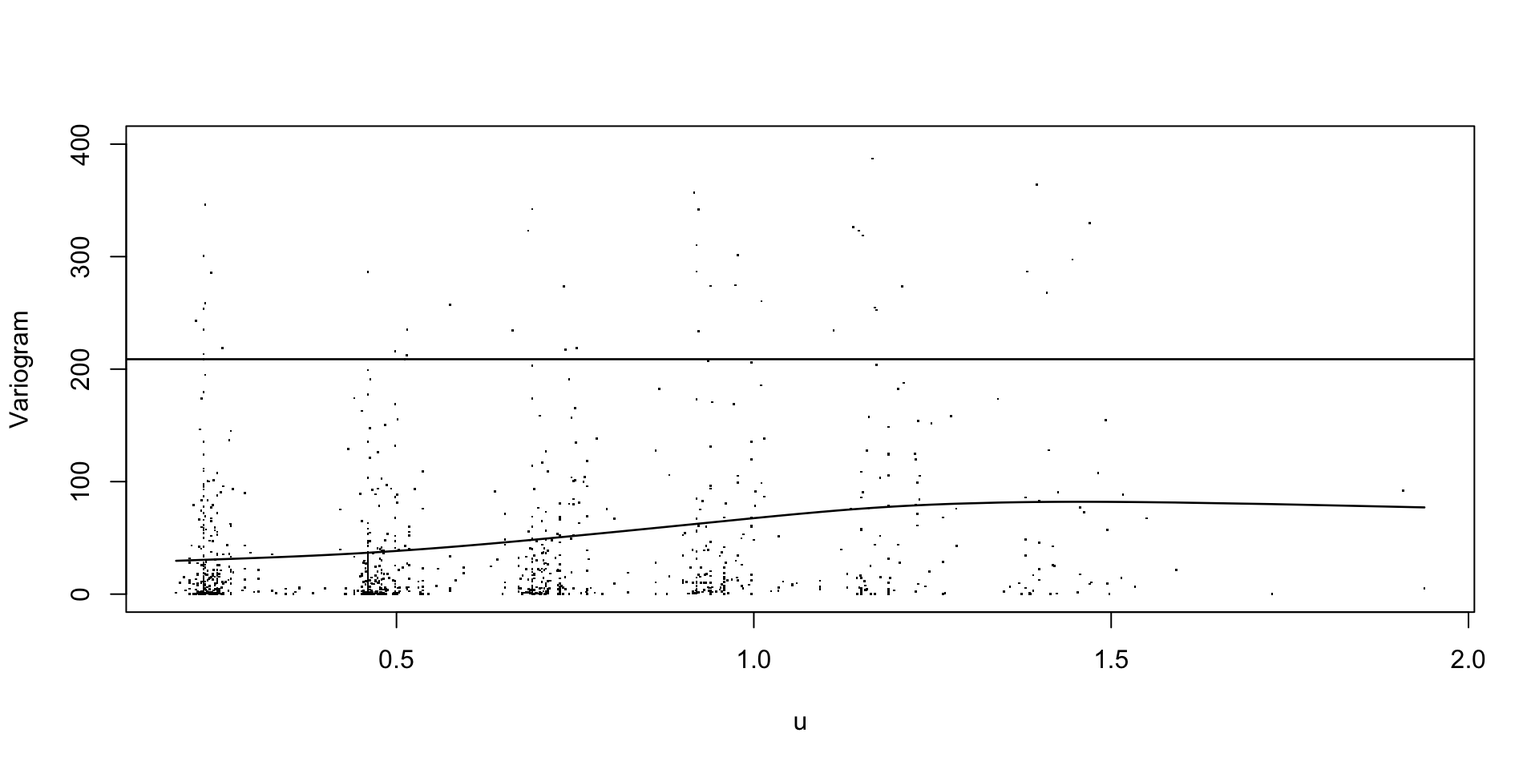
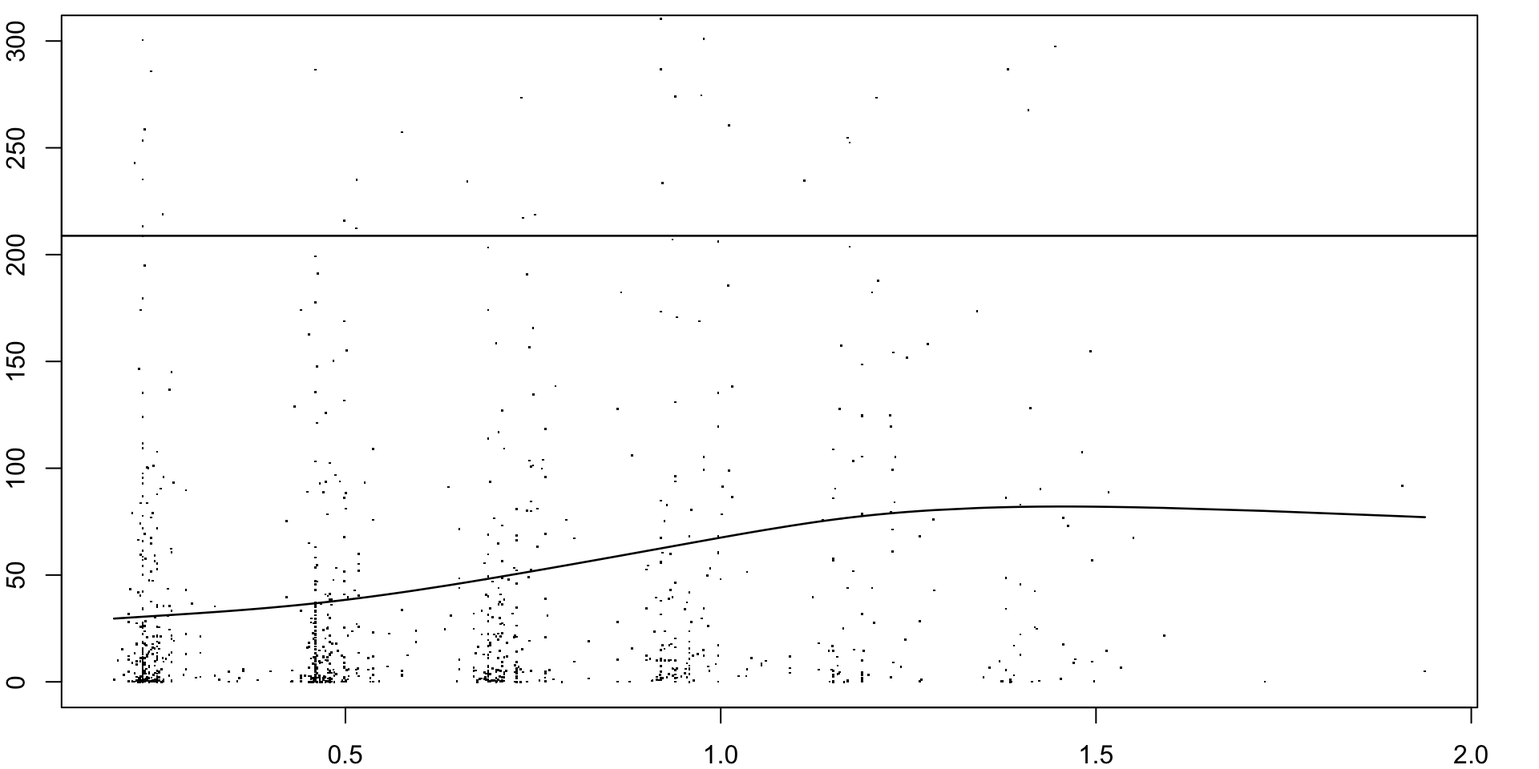
tweaks

diff --git a/PHS-651-9-2/slides-9-2.html b/PHS-651-9-2/slides-9-2.html
@@ -421,6 +421,32 @@ November 7, 2024
 </div>
 </div>
 </div>
+</section><section id="update-inference-for-a-single-regression-parameter" class="slide level2"><h2>Update: Inference for a single regression parameter</h2>
+<p>The fundamentals of statistical inference remain the same between non-longitudinal clustered data and longitudinal data models</p>
+<ul>
+<li>
+<p>Confidence intervals for a single regression coefficients are still:</p>
+<ul>
+<li><p><span class="math inline">\(\hat{\beta} \pm SE_\beta \times Z_{1-\alpha/2}\)</span>, if using a Z critical value</p></li>
+<li><p><span class="math inline">\(\hat{\beta} \pm SE_\beta \times t_{DoF; ~1-\alpha/2}\)</span> if using a t critical value</p></li>
+</ul>
+</li>
+</ul>
+<p>Using a Z standard normal critical value may result in p-values being smaller or confidence intervals beeing narrower than “reality”</p>
+<p>But using a t critical value requires determining the degrees of freedom… which is complicated in longitudinal data settings</p>
+<ul>
+<li>
+<p>2 degrees of freedom approximations are:</p>
+<ul>
+<li><p>Satterthwaite approximation</p></li>
+<li><p>Kenward-Roger approximations</p></li>
+</ul>
+</li>
+<li><p>Both are available in <code>PROC GLIMMIX</code> in SAS and via the <code>lmer()</code> function from <code><a href="https://github.com/runehaubo/lmerTestR">library(lmerTest)</a></code></p></li>
+</ul>
+<div class="absolute" style="bottom: 300px; right: 100px; width: 45%; ">
+<p><span class="alert">These approximations are appropriate when the number of clusters is “small” (rule of thumb: fewer than 40)</span></p>
+</div>
 </section><section id="building-a-longitudinal-model" class="slide level2"><h2>Building a longitudinal model</h2>
 <p>Over the last few weeks we’ve touched on how we might explore the data to make some initial modeling decisions</p>
 <div class="fragment">
@@ -429,7 +455,7 @@ November 7, 2024
 <ul>
 <li>Should we include a time-by-exposure interaction in the mean model?</li>
 </ul>
-<p><br></p>
+<p><br><br></p>
 <ul>
 <li>What correlation structures might be appropriate for a GEE?</li>
 </ul>
@@ -437,7 +463,7 @@ November 7, 2024
 <ul>
 <li>If we’re running a GLMM, should we include random slopes?</li>
 </ul>
-<p><br></p>
+<p><br><br></p>
 <ul>
 <li>If we’re running a GLMM, should we include serial correlation?</li>
 </ul>
@@ -490,7 +516,7 @@ November 7, 2024
 <p>If we’re running a GLMM, should we include serial correlation?</p>
 <ul>
 <li><p>Calculate correlation matrix</p></li>
-<li><p><span class="fragment alert">We could also create a variogram plot specifically</span></p></li>
+<li><p><span class="fragment alert">We could also create a variogram plot</span></p></li>
 </ul>
 </li>
 </ul>
@@ -504,18 +530,28 @@ November 7, 2024
 <p><span class="math display">\[Y_{ij} = \beta_0 + \beta_1 U_{i0} + \beta_3 t_{ij} + b_{0i}Z_i + C_i(t_{ij}) + \epsilon_{ij}\]</span></p>
 <p><span class="math display">\[b_{0i} \sim N(0,\sigma^2_{0})~~~C_i(t_{ij}) \sim N(0, \sigma^2_c)~~~ \epsilon_{ij} \sim (0, \sigma^2_\epsilon)\]</span> <span class="math display">\[Corr[C_i(t_{ij}), C_i(t_{ik})] = \exp\{-|t_{ij} - t_{ik}|\}\]</span></p>
 </div><div class="column" style="width:40%;">
-<p><span class="alert">Empirical variogram plots</span> are one way to assess the presence/strength of serial correlation, and whether random intercepts are needed</p>
+<div class="fragment">
+<p><span class="alert">Sample or empirical variogram plots</span> are one way to assess the presence/strength of serial correlation, and whether random intercepts are needed</p>
 </div>
 </div>
+</div>
+<div class="fragment">
 <p><img data-src="variogram-edit.png" class="absolute" style="bottom: -80px; width: 65%; "></p>
+</div>
 </section><section id="variograms-1" class="slide level2"><h2>Variograms</h2>
 <div class="columns">
 <div class="column" style="width:65%;">
-<p><img data-src="variogram-evidence.png" style="width:150.0%"></p>
+<p><img data-src="variogram-evidence.png" style="width:170.0%"></p>
 </div><div class="column" style="width:35%;">
 <ul>
 <li><p>The more the curve is stretched out horizontally (“wide S”), the slower it takes correlation between observations to decay</p></li>
 <li><p>The taller the curve, the faster it takes correlation between observations to decay</p></li>
+<li>
+<p>These plots are more useful when each cluster has enough repeated measures</p>
+<ul>
+<li>Software often won’t compute this for fewer than 4 time points</li>
+</ul>
+</li>
 </ul>
 </div>
 </div>
@@ -526,7 +562,7 @@ November 7, 2024
 <pre><code>Rows: 675
 Columns: 9
 $ VISIT        &lt;int&gt; 1, 4, 7, 10, 13, 16, 19, 1, 4, 7, 10, 13, 16, 19, 1, 4, 7…
-$ newpid       &lt;int&gt; 1, 1, 1, 1, 1, 1, 1, 3, 3, 3, 3, 3, 3, 3, 4, 4, 4, 4, 4, …
+$ newpid       &lt;fct&gt; 1, 1, 1, 1, 1, 1, 1, 3, 3, 3, 3, 3, 3, 3, 4, 4, 4, 4, 4, …
 $ VDATE        &lt;chr&gt; "6/29/1988 ", "1/19/1989 ", "4/13/1989 ", "", "11/30/1989…
 $ CD4PCT       &lt;dbl&gt; 18, 37, 13, NA, 13, NA, 12, 28, 28, 33, 33, 37, 35, 28, 3…
 $ arv          &lt;int&gt; 0, 0, 0, 0, 0, NA, 1, 0, 0, 0, 0, 0, 0, 0, 0, 0, 0, 0, 0,…
@@ -539,20 +575,40 @@ $ time         &lt;dbl&gt; 0.0000000, 0.5583333, 0.7883333, 1.0950000, 1.4208333
 <ul>
 <li>We want to see how the square-root of CD4+ cell counts behaves over time for each child</li>
 </ul></section><section id="example-cd4-count-1" class="slide level2"><h2>Example: CD4+ count</h2>
+<p>First, a spaghetti plot of 20 random participants</p>
+<div class="cell">
+<div class="sourceCode cell-code" id="cb2"><pre class="sourceCode numberSource r number-lines code-with-copy"><code class="sourceCode r"><span id="cb2-1"><a href="#cb2-1"></a>cd4_sample <span class="ot">&lt;-</span> <span class="fu">sample</span>(cd4<span class="sc">$</span>newpid, <span class="dv">20</span>)</span>
+<span id="cb2-2"><a href="#cb2-2"></a>cd4 <span class="sc">%&gt;%</span> </span>
+<span id="cb2-3"><a href="#cb2-3"></a>   dplyr<span class="sc">::</span><span class="fu">filter</span>(newpid <span class="sc">%in%</span> cd4_sample) <span class="sc">%&gt;%</span> </span>
+<span id="cb2-4"><a href="#cb2-4"></a>   <span class="fu">ggplot</span>(<span class="fu">aes</span>(time, <span class="fu">sqrt</span>(CD4CNT), <span class="at">group =</span> newpid, <span class="at">color =</span> newpid)) <span class="sc">+</span> </span>
+<span id="cb2-5"><a href="#cb2-5"></a>   <span class="fu">geom_line</span>(<span class="at">size=</span><span class="fl">1.2</span>)<span class="sc">+</span></span>
+<span id="cb2-6"><a href="#cb2-6"></a>   <span class="fu">theme_bw</span>()<span class="sc">+</span></span>
+<span id="cb2-7"><a href="#cb2-7"></a>   <span class="fu">theme</span>(<span class="at">text =</span> <span class="fu">element_text</span>(<span class="at">size =</span> <span class="dv">20</span>)) </span></code><button title="Copy to Clipboard" class="code-copy-button"><i class="bi"></i></button></pre></div>
+<div class="cell-output-display">
+<p><img data-src="slides-9-2_files/figure-revealjs/cd4%20plot-1.png" style="width:60.0%"></p>
+</div>
+</div>
+<div class="absolute" style="bottom: 500px; right: -30px; width: 40%; ">
+<p><span class="alert">What’s our instinct on appropriateness of random intercepts/slopes?</span></p>
+</div>
+</section><section id="example-cd4-count-2" class="slide level2"><h2>Example: CD4+ count</h2>
 <p>Unfortunately, I haven’t been able to find appropriate code to plot (time) variograms in SAS</p>
 <p>In R, we can create these plots using the <code>variogram()</code> function from <code><a href="https://github.com/graemeleehickey/joineR/">library(joineR)</a></code></p>
 <div class="cell">
-<div class="sourceCode cell-code" id="cb2"><pre class="sourceCode numberSource r number-lines code-with-copy"><code class="sourceCode r"><span id="cb2-1"><a href="#cb2-1"></a><span class="fu">library</span>(joineR)</span>
-<span id="cb2-2"><a href="#cb2-2"></a>vario <span class="ot">&lt;-</span> <span class="fu">variogram</span>( <span class="at">indv =</span> cd4<span class="sc">$</span>newpid,</span>
-<span id="cb2-3"><a href="#cb2-3"></a>                    <span class="at">time =</span> cd4<span class="sc">$</span>time,</span>
-<span id="cb2-4"><a href="#cb2-4"></a>                    <span class="at">Y =</span> <span class="fu">sqrt</span>(cd4<span class="sc">$</span>CD4CNT) )</span>
-<span id="cb2-5"><a href="#cb2-5"></a>vario<span class="sc">$</span>svar <span class="ot">&lt;-</span> vario<span class="sc">$</span>svar[<span class="fu">complete.cases</span>(vario<span class="sc">$</span>svar),]</span>
-<span id="cb2-6"><a href="#cb2-6"></a></span>
-<span id="cb2-7"><a href="#cb2-7"></a></span>
-<span id="cb2-8"><a href="#cb2-8"></a><span class="fu">plot</span>(vario, <span class="at">smooth=</span>T, <span class="at">ylim=</span><span class="fu">c</span>(<span class="dv">0</span>,<span class="dv">400</span>))</span></code><button title="Copy to Clipboard" class="code-copy-button"><i class="bi"></i></button></pre></div>
+<div class="sourceCode cell-code" id="cb3"><pre class="sourceCode numberSource r number-lines code-with-copy"><code class="sourceCode r"><span id="cb3-1"><a href="#cb3-1"></a><span class="fu">library</span>(joineR)</span>
+<span id="cb3-2"><a href="#cb3-2"></a>vario <span class="ot">&lt;-</span> <span class="fu">variogram</span>( <span class="at">indv =</span> cd4<span class="sc">$</span>newpid,</span>
+<span id="cb3-3"><a href="#cb3-3"></a>                    <span class="at">time =</span> cd4<span class="sc">$</span>time,</span>
+<span id="cb3-4"><a href="#cb3-4"></a>                    <span class="at">Y =</span> <span class="fu">sqrt</span>(cd4<span class="sc">$</span>CD4CNT) )</span>
+<span id="cb3-5"><a href="#cb3-5"></a>vario<span class="sc">$</span>svar <span class="ot">&lt;-</span> vario<span class="sc">$</span>svar[<span class="fu">complete.cases</span>(vario<span class="sc">$</span>svar),]</span>
+<span id="cb3-6"><a href="#cb3-6"></a></span>
+<span id="cb3-7"><a href="#cb3-7"></a><span class="fu">par</span>(<span class="at">mar =</span> <span class="fu">c</span>(<span class="dv">2</span>, <span class="dv">2</span>, <span class="fl">0.5</span>, <span class="dv">2</span>))</span>
+<span id="cb3-8"><a href="#cb3-8"></a><span class="fu">plot</span>(vario, <span class="at">smooth=</span>T, <span class="at">ylim=</span><span class="fu">c</span>(<span class="dv">0</span>,<span class="dv">300</span>))</span></code><button title="Copy to Clipboard" class="code-copy-button"><i class="bi"></i></button></pre></div>
 <div class="cell-output-display">
-<p><img data-src="slides-9-2_files/figure-revealjs/variogram-1.png" width="960"></p>
+<p><img data-src="slides-9-2_files/figure-revealjs/variogram-1.png" style="width:55.0%"></p>
 </div>
+</div>
+<div class="absolute" style="bottom: 450px; right: -500px; width: 50%; ">
+<p><span class="alert">What can we conclude?</span></p>
 </div>
 </section><section id="building-longitudinal-models" class="slide level2"><h2>Building longitudinal model(s?)</h2>
 <p>However, even after we perform these exploratory steps, we might still be left with multiple plausible model specifications</p>
@@ -579,7 +635,7 @@ $ time         &lt;dbl&gt; 0.0000000, 0.5583333, 0.7883333, 1.0950000, 1.4208333
 <p>An LRT is obtained by taking twice the difference in the respective maximized REML log-likelihoods, <span class="math display">\[G^2 = 2(\hat{l}_{full} - \hat{l}_{reduced})\]</span> and comparing statistic to a chi-squared distribution with degrees-of-freedom equal to difference between the number of covariance parameters in full and reduced models</p>
 <ul>
 <li><p>“Full” here would be the most complicated covariance structure, while “reduced” would be a simpler one</p></li>
-<li><p>Sometimes it’s also written as <span class="math inline">\(G^2 = -2(\hat{l}_{reduced} - \hat{l}_full)\)</span></p></li>
+<li><p>Sometimes it’s also written as <span class="math inline">\(G^2 = -2(\hat{l}_{reduced} - \hat{l}_{full})\)</span></p></li>
 </ul>
 </li>
 </ul>
@@ -607,7 +663,8 @@ $ time         &lt;dbl&gt; 0.0000000, 0.5583333, 0.7883333, 1.0950000, 1.4208333
 </ul>
 <p>For GLMMs, this means comparing models with <span class="alert">the same fixed effects</span> but “nested” random effects</p>
 <ul>
-<li>i.e., random intercepts vs random slopes + random intercepts</li>
+<li><p>i.e., random intercepts vs random slopes + random intercepts; random slopes vs random slopes + random intercepts</p></li>
+<li><p>NOT random intercepts vs random slopes</p></li>
 </ul></section><section id="model-comparison-via-aic" class="slide level2"><h2>Model comparison via AIC</h2>
 <p>An alternative approach is the <span class="alert">Akaike Information Criterion (AIC)</span></p>
 <ul>
@@ -617,8 +674,8 @@ $ time         &lt;dbl&gt; 0.0000000, 0.5583333, 0.7883333, 1.0950000, 1.4208333
 <div class="fragment">
 <p>According to AIC, we want a model that fits the data well, but not at the price of having to estimate a ton of extra covariance parameters</p>
 <ul>
-<li>SAS reports AIC automatically in <code>PROC GLIMMIX</code>
-</li>
+<li><p>You can use this to compare either nested or non-nested models</p></li>
+<li><p>SAS reports AIC automatically in <code>PROC GLIMMIX</code></p></li>
 </ul>
 </div>
 <div class="fragment">
@@ -631,13 +688,13 @@ $ time         &lt;dbl&gt; 0.0000000, 0.5583333, 0.7883333, 1.0950000, 1.4208333
 </ul>
 <div class="fragment">
 <div class="cell">
-<div class="sourceCode cell-code" id="cb3"><pre class="sourceCode numberSource r number-lines code-with-copy"><code class="sourceCode r"><span id="cb3-1"><a href="#cb3-1"></a>exercise_lme_slopes <span class="ot">&lt;-</span> <span class="fu">lmer</span>( strength <span class="sc">~</span> PROGRAM<span class="sc">*</span>time <span class="sc">+</span> (time <span class="sc">|</span> ID),</span>
-<span id="cb3-2"><a href="#cb3-2"></a>                      <span class="at">data =</span> exercise_long )</span>
-<span id="cb3-3"><a href="#cb3-3"></a></span>
-<span id="cb3-4"><a href="#cb3-4"></a>exercise_lme_int <span class="ot">&lt;-</span> <span class="fu">lmer</span>( strength <span class="sc">~</span> PROGRAM<span class="sc">*</span>time <span class="sc">+</span> (<span class="dv">1</span> <span class="sc">|</span> ID),</span>
-<span id="cb3-5"><a href="#cb3-5"></a>                      <span class="at">data =</span> exercise_long )</span>
-<span id="cb3-6"><a href="#cb3-6"></a></span>
-<span id="cb3-7"><a href="#cb3-7"></a><span class="fu">anova</span>(exercise_lme_slopes, exercise_lme_int)</span></code><button title="Copy to Clipboard" class="code-copy-button"><i class="bi"></i></button></pre></div>
+<div class="sourceCode cell-code" id="cb4"><pre class="sourceCode numberSource r number-lines code-with-copy"><code class="sourceCode r"><span id="cb4-1"><a href="#cb4-1"></a>exercise_lme_slopes <span class="ot">&lt;-</span> <span class="fu">lmer</span>( strength <span class="sc">~</span> PROGRAM<span class="sc">*</span>time <span class="sc">+</span> (time <span class="sc">|</span> ID),</span>
+<span id="cb4-2"><a href="#cb4-2"></a>                      <span class="at">data =</span> exercise_long )</span>
+<span id="cb4-3"><a href="#cb4-3"></a></span>
+<span id="cb4-4"><a href="#cb4-4"></a>exercise_lme_int <span class="ot">&lt;-</span> <span class="fu">lmer</span>( strength <span class="sc">~</span> PROGRAM<span class="sc">*</span>time <span class="sc">+</span> (<span class="dv">1</span> <span class="sc">|</span> ID),</span>
+<span id="cb4-5"><a href="#cb4-5"></a>                      <span class="at">data =</span> exercise_long )</span>
+<span id="cb4-6"><a href="#cb4-6"></a></span>
+<span id="cb4-7"><a href="#cb4-7"></a><span class="fu">anova</span>(exercise_lme_slopes, exercise_lme_int)</span></code><button title="Copy to Clipboard" class="code-copy-button"><i class="bi"></i></button></pre></div>
 <div class="cell-output cell-output-stdout">
 <pre><code>Data: exercise_long
 Models:
@@ -658,7 +715,7 @@ Signif. codes:  0 '***' 0.001 '**' 0.01 '*' 0.05 '.' 0.1 ' ' 1</code></pre>
 <p><span class="alert">What can we conclude?</span></p>
 </div>
 </section><section id="model-comparison-via-qiccic" class="slide level2"><h2>Model comparison via QIC/CIC</h2>
-<p>Neither LRTs nor AIC works for GEEs because GEEs do not have a likelihood that is needed to calculate those statistics</p>
+<p>Neither LRTs nor AIC work for GEEs because GEEs do not have a likelihood that is needed to calculate those statistics</p>
 <ul>
 <li>
 <p>Instead, we can use a modified AIC called the <span class="alert">Quasi-likelihood Information Criterion (QIC)</span></p>
@@ -679,22 +736,22 @@ Signif. codes:  0 '***' 0.001 '**' 0.01 '*' 0.05 '.' 0.1 ' ' 1</code></pre>
 <p>For R, <code>QIC()</code> is only available for models run with the <code>geeglm()</code> function from <code><a href="https://rdrr.io/r/base/library.html">library(geepack)</a></code></p>
 <div class="fragment">
 <div class="cell">
-<div class="sourceCode cell-code" id="cb5"><pre class="sourceCode numberSource r number-lines code-with-copy"><code class="sourceCode r"><span id="cb5-1"><a href="#cb5-1"></a><span class="fu">library</span>(geepack)</span>
-<span id="cb5-2"><a href="#cb5-2"></a></span>
-<span id="cb5-3"><a href="#cb5-3"></a><span class="co"># fitting an unstructured correlation structure #</span></span>
-<span id="cb5-4"><a href="#cb5-4"></a>exercise_gee_un <span class="ot">&lt;-</span> <span class="fu">geeglm</span>(strength <span class="sc">~</span> PROGRAM<span class="sc">*</span>time, <span class="at">id=</span>ID,</span>
-<span id="cb5-5"><a href="#cb5-5"></a>                    <span class="at">data=</span>exercise_long, <span class="at">corstr=</span><span class="st">"unstructured"</span>)</span>
-<span id="cb5-6"><a href="#cb5-6"></a></span>
-<span id="cb5-7"><a href="#cb5-7"></a><span class="co"># fitting an autoregression, distance 1 correlation structure #</span></span>
-<span id="cb5-8"><a href="#cb5-8"></a>exercise_gee_AR <span class="ot">&lt;-</span> <span class="fu">geeglm</span>(strength <span class="sc">~</span> PROGRAM<span class="sc">*</span>time, <span class="at">id=</span>ID,</span>
-<span id="cb5-9"><a href="#cb5-9"></a>                    <span class="at">data=</span>exercise_long, <span class="at">corstr=</span><span class="st">"ar1"</span>)</span>
-<span id="cb5-10"><a href="#cb5-10"></a></span>
-<span id="cb5-11"><a href="#cb5-11"></a><span class="co"># fitting an exchangeable correlation structure #</span></span>
-<span id="cb5-12"><a href="#cb5-12"></a>exercise_gee_exch <span class="ot">&lt;-</span> <span class="fu">geeglm</span>(strength <span class="sc">~</span> PROGRAM<span class="sc">*</span>time, <span class="at">id=</span>ID,</span>
-<span id="cb5-13"><a href="#cb5-13"></a>                    <span class="at">data=</span>exercise_long, <span class="at">corstr=</span><span class="st">"exchangeable"</span>)</span></code><button title="Copy to Clipboard" class="code-copy-button"><i class="bi"></i></button></pre></div>
+<div class="sourceCode cell-code" id="cb6"><pre class="sourceCode numberSource r number-lines code-with-copy"><code class="sourceCode r"><span id="cb6-1"><a href="#cb6-1"></a><span class="fu">library</span>(geepack)</span>
+<span id="cb6-2"><a href="#cb6-2"></a></span>
+<span id="cb6-3"><a href="#cb6-3"></a><span class="co"># fitting an unstructured correlation structure #</span></span>
+<span id="cb6-4"><a href="#cb6-4"></a>exercise_gee_un <span class="ot">&lt;-</span> <span class="fu">geeglm</span>(strength <span class="sc">~</span> PROGRAM<span class="sc">*</span>time, <span class="at">id=</span>ID,</span>
+<span id="cb6-5"><a href="#cb6-5"></a>                    <span class="at">data=</span>exercise_long, <span class="at">corstr=</span><span class="st">"unstructured"</span>)</span>
+<span id="cb6-6"><a href="#cb6-6"></a></span>
+<span id="cb6-7"><a href="#cb6-7"></a><span class="co"># fitting an autoregression, distance 1 correlation structure #</span></span>
+<span id="cb6-8"><a href="#cb6-8"></a>exercise_gee_AR <span class="ot">&lt;-</span> <span class="fu">geeglm</span>(strength <span class="sc">~</span> PROGRAM<span class="sc">*</span>time, <span class="at">id=</span>ID,</span>
+<span id="cb6-9"><a href="#cb6-9"></a>                    <span class="at">data=</span>exercise_long, <span class="at">corstr=</span><span class="st">"ar1"</span>)</span>
+<span id="cb6-10"><a href="#cb6-10"></a></span>
+<span id="cb6-11"><a href="#cb6-11"></a><span class="co"># fitting an exchangeable correlation structure #</span></span>
+<span id="cb6-12"><a href="#cb6-12"></a>exercise_gee_exch <span class="ot">&lt;-</span> <span class="fu">geeglm</span>(strength <span class="sc">~</span> PROGRAM<span class="sc">*</span>time, <span class="at">id=</span>ID,</span>
+<span id="cb6-13"><a href="#cb6-13"></a>                    <span class="at">data=</span>exercise_long, <span class="at">corstr=</span><span class="st">"exchangeable"</span>)</span></code><button title="Copy to Clipboard" class="code-copy-button"><i class="bi"></i></button></pre></div>
 </div>
 <div class="cell">
-<div class="sourceCode cell-code" id="cb6"><pre class="sourceCode numberSource r number-lines code-with-copy"><code class="sourceCode r"><span id="cb6-1"><a href="#cb6-1"></a><span class="fu">QIC</span>(exercise_gee_un, exercise_gee_AR, exercise_gee_exch)</span></code><button title="Copy to Clipboard" class="code-copy-button"><i class="bi"></i></button></pre></div>
+<div class="sourceCode cell-code" id="cb7"><pre class="sourceCode numberSource r number-lines code-with-copy"><code class="sourceCode r"><span id="cb7-1"><a href="#cb7-1"></a><span class="fu">QIC</span>(exercise_gee_un, exercise_gee_AR, exercise_gee_exch)</span></code><button title="Copy to Clipboard" class="code-copy-button"><i class="bi"></i></button></pre></div>
 <div class="cell-output cell-output-stdout">
 <pre><code>                       QIC     QICu Quasi Lik      CIC params     QICC
 exercise_gee_un   2844.884 2786.481 -1389.240 33.20135      4 2963.065
@@ -706,6 +763,41 @@ exercise_gee_exch 2672.038 2654.145 -1323.073 12.94616      4 2673.973</code></p
 <div class="fragment">
 <p><span class="alert">What can we conclude?</span></p>
 </div>
+</section><section id="example-exercise-therapy-trial-2" class="slide level2"><h2>Example: Exercise therapy trial</h2>
+<p>Let’s try comparing their model-based and robust SEs. First we need to refit the models with <code>gee()</code></p>
+<div class="cell">
+<div class="sourceCode cell-code" id="cb9"><pre class="sourceCode numberSource r number-lines code-with-copy"><code class="sourceCode r"><span id="cb9-1"><a href="#cb9-1"></a><span class="fu">library</span>(gee)</span>
+<span id="cb9-2"><a href="#cb9-2"></a>exercise_gee_un2 <span class="ot">&lt;-</span> <span class="fu">gee</span>(strength <span class="sc">~</span> PROGRAM<span class="sc">*</span>time, <span class="at">id=</span>ID,</span>
+<span id="cb9-3"><a href="#cb9-3"></a>                    <span class="at">data=</span>exercise_long, <span class="at">corstr=</span><span class="st">"unstructured"</span>)</span>
+<span id="cb9-4"><a href="#cb9-4"></a></span>
+<span id="cb9-5"><a href="#cb9-5"></a><span class="co"># fitting an autoregression, distance 1 correlation structure #</span></span>
+<span id="cb9-6"><a href="#cb9-6"></a>exercise_gee_AR2 <span class="ot">&lt;-</span> <span class="fu">gee</span>(strength <span class="sc">~</span> PROGRAM<span class="sc">*</span>time, <span class="at">id=</span>ID,</span>
+<span id="cb9-7"><a href="#cb9-7"></a>                    <span class="at">data=</span>exercise_long, <span class="at">corstr=</span><span class="st">"AR-M"</span>, <span class="at">Mv=</span><span class="dv">1</span>)</span>
+<span id="cb9-8"><a href="#cb9-8"></a></span>
+<span id="cb9-9"><a href="#cb9-9"></a><span class="co"># fitting an exchangeable correlation structure #</span></span>
+<span id="cb9-10"><a href="#cb9-10"></a>exercise_gee_exch2 <span class="ot">&lt;-</span> <span class="fu">gee</span>(strength <span class="sc">~</span> PROGRAM<span class="sc">*</span>time, <span class="at">id=</span>ID,</span>
+<span id="cb9-11"><a href="#cb9-11"></a>                    <span class="at">data=</span>exercise_long, <span class="at">corstr=</span><span class="st">"exchangeable"</span>)</span></code><button title="Copy to Clipboard" class="code-copy-button"><i class="bi"></i></button></pre></div>
+</div>
+</section><section id="example-exercise-therapy-trial-3" class="slide level2"><h2>Example: Exercise therapy trial</h2>
+<p>Then we can compare the distance between the SEs within each model</p>
+<div class="cell">
+<div class="sourceCode cell-code" id="cb10"><pre class="sourceCode numberSource r number-lines code-with-copy"><code class="sourceCode r"><span id="cb10-1"><a href="#cb10-1"></a><span class="fu">summary</span>(exercise_gee_un2)<span class="sc">$</span>coeff[,<span class="dv">2</span>] <span class="sc">-</span> <span class="fu">summary</span>(exercise_gee_un2)<span class="sc">$</span>coeff[,<span class="dv">4</span>]</span></code><button title="Copy to Clipboard" class="code-copy-button"><i class="bi"></i></button></pre></div>
+<div class="cell-output cell-output-stdout">
+<pre><code> (Intercept)      PROGRAM         time PROGRAM:time 
+  0.11569326   0.07859974   0.04802520   0.03741343 </code></pre>
+</div>
+<div class="sourceCode cell-code" id="cb12"><pre class="sourceCode numberSource r number-lines code-with-copy"><code class="sourceCode r"><span id="cb12-1"><a href="#cb12-1"></a><span class="fu">summary</span>(exercise_gee_AR2)<span class="sc">$</span>coeff[,<span class="dv">2</span>] <span class="sc">-</span> <span class="fu">summary</span>(exercise_gee_AR2)<span class="sc">$</span>coeff[,<span class="dv">4</span>]</span></code><button title="Copy to Clipboard" class="code-copy-button"><i class="bi"></i></button></pre></div>
+<div class="cell-output cell-output-stdout">
+<pre><code> (Intercept)      PROGRAM         time PROGRAM:time 
+  0.04362785   0.05176057  -0.02992846  -0.01053647 </code></pre>
+</div>
+<div class="sourceCode cell-code" id="cb14"><pre class="sourceCode numberSource r number-lines code-with-copy"><code class="sourceCode r"><span id="cb14-1"><a href="#cb14-1"></a><span class="fu">summary</span>(exercise_gee_exch2)<span class="sc">$</span>coeff[,<span class="dv">2</span>] <span class="sc">-</span> <span class="fu">summary</span>(exercise_gee_exch2)<span class="sc">$</span>coeff[,<span class="dv">4</span>]</span></code><button title="Copy to Clipboard" class="code-copy-button"><i class="bi"></i></button></pre></div>
+<div class="cell-output cell-output-stdout">
+<pre><code> (Intercept)      PROGRAM         time PROGRAM:time 
+  0.08836276   0.04048312  -0.04944752  -0.02418467 </code></pre>
+</div>
+</div>
+<p><span class="alert">What can we conclude?</span></p>
 </section><section id="model-justification" class="slide level2"><h2>Model justification</h2>
 <p>We can use these metrics in a couple of different ways</p>
 <div class="fragment">
